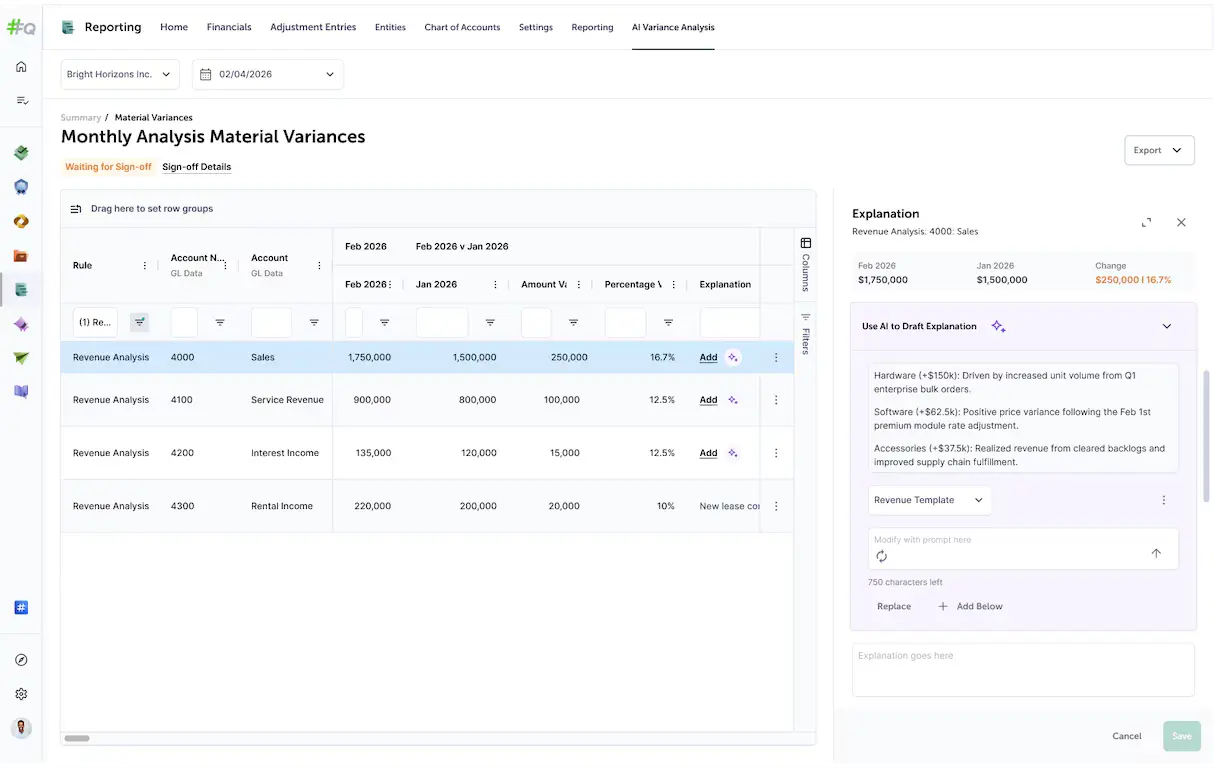
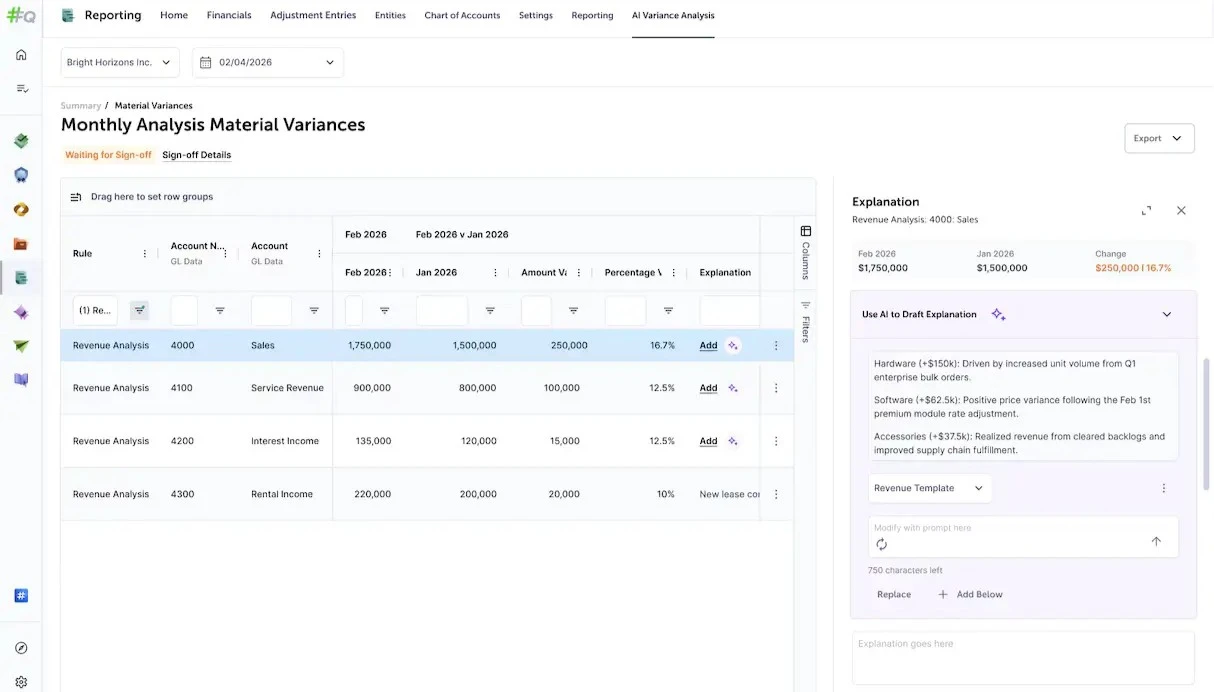
feat: improve floqast background and enhance docs

diff --git a/src/i18n/ui.js b/src/i18n/ui.js
@@ -31,7 +31,7 @@ export const ui = {
         "experience.title": "Professional Experience",
         "experience.floqast-job-title": "Frontend Engineer",
         "experience.floqast-job-achievements": [
-            "Built and scaled React components for a micro-frontend architecture (single-spa) supporting 3,000+ Enterprise clients (e.g., Zoom, Snowflake).",
+            "Built and scaled React components for a micro-frontend architecture, supporting 3,000+ Enterprise clients (e.g., Zoom, Snowflake).",
             "Integrated AI agents (Cursor, Claude Code) with custom context engineering and workflows to ship production features ~2.5x faster, automating test generation end-to-end.",
             "Expanded the Flo-UI design system with 25+ reusable React components using Compound Components and Custom Hooks patterns in Storybook, eliminating regression incidents across 14 consuming squads.",
         ],
@@ -134,7 +134,7 @@ export const ui = {
         "experience.title": "Experiencia profesional",
         "experience.floqast-job-title": "Ingeniero Frontend",
         "experience.floqast-job-achievements": [
-            "Construí y escalé componentes React para una arquitectura de micro-frontends (single-spa) que da soporte a más de 3.000 clientes enterprise (p. ej., Zoom, Snowflake).",
+            "Construí y escalé componentes React para una arquitectura de micro-frontends, que da soporte a más de 3.000 clientes enterprise (p. ej., Zoom, Snowflake).",
             "Integré agentes de IA (Cursor, Claude Code) con context engineering y flujos de trabajo personalizados para enviar funcionalidades a producción ~2,5x más rápido, automatizando la generación de tests de extremo a extremo.",
             "Amplié el design system Flo-UI con más de 25 componentes React reutilizables usando patrones de Compound Components y Custom Hooks en Storybook, eliminando incidencias de regresión en 14 squads consumidores.",
         ],
@@ -237,7 +237,7 @@ export const ui = {
         "experience.title": "Experiência Profissional",
         "experience.floqast-job-title": "Engenheiro Frontend",
         "experience.floqast-job-achievements": [
-            "Construí e escalei componentes React para uma arquitetura de micro-frontends (single-spa) que dá suporte a mais de 3.000 clientes enterprise (ex.: Zoom, Snowflake).",
+            "Construí e escalei componentes React para uma arquitetura de micro-frontends que dá suporte a mais de 3.000 clientes enterprise (ex.: Zoom, Snowflake).",
             "Integrei agentes de IA (Cursor, Claude Code) com context engineering e fluxos de trabalho personalizados para entregar funcionalidades em produção ~2,5x mais rápido, automatizando a geração de testes de ponta a ponta.",
             "Expandi o design system Flo-UI com mais de 25 componentes React reutilizáveis usando padrões de Compound Components e Custom Hooks no Storybook, eliminando incidentes de regressão em 14 squads consumidores.",
         ],
